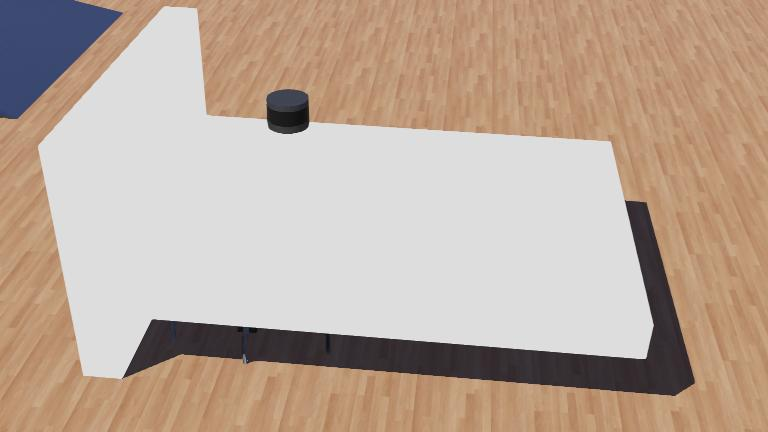
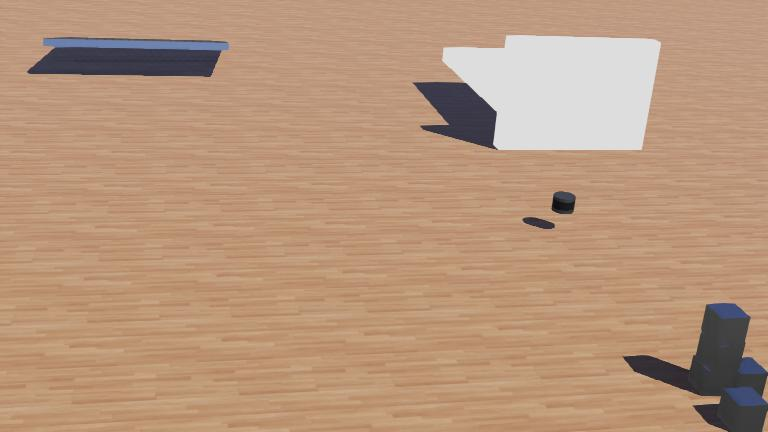
尝试获取了camera的数据，Base64编码的JPEG图像

diff --git a/controllers/pyHexapod/HexapodRobot.py b/controllers/pyHexapod/HexapodRobot.py
@@ -1,6 +1,6 @@
 import math
 import numpy as np
-from controller import Robot, Display
+from controller import Robot
 from HexLeg import LegR
 from HexLeg import LegL
 from HexIMU import IMU
@@ -34,20 +34,9 @@ class Hexapod(Robot):
         super().__init__()
 
         self.imu = IMU(self)
-        # self.camera = HexCamera(self)
+        self.camera = HexCamera(self)
         self.lidar = None
         self.timeStep = int(self.getBasicTimeStep())
-
-        # # 获取内置显示器
-        # self.display = self.getDevice("display")
-        # if self.display:
-        #     print("内置显示器已启用")
-        # else:
-        #     print("警告: 找不到内置显示设备")
-
-        # # 初始化相机相关参数
-        # self.display_counter = 0
-        # self.display_interval = 5  # 每5个时间步更新一次显示
 
         # Initialize legs with numpy arrays
         self.BRleg = LegR(
@@ -125,47 +114,30 @@ class Hexapod(Robot):
         )
         self.currentHeight = self.initHeight = leg_coords[2]
 
-    # def update_display(self):
-    #     """在Webots内置显示器上显示相机画面"""
-    #     # 如果没有显示器或没有图像数据，直接返回
-    #     if not self.display or not self.camera or not self.camera.image_data:
-    #         return
-
-    #     # 获取图像数据
-    #     image_data = self.camera.image_data
-    #     width = self.camera.width
-    #     height = self.camera.height
-
-    # 创建Webots图像对象
-    # image_ref = self.display.imageNew(
-    #     data=image_data,
-    #     width=width,
-    #     height=height,
-    #     width = width * 4,//这里老是击败报错补吱道什么原因，说参数数量不对
-    #     format=self.display.BGRA
-    # )
-
-    # # 显示图像
-    # self.display.imagePaste(image_ref, 0, 0, False)
-
-    # # 删除图像引用以释放内存
-    # self.display.imageDelete(image_ref)
-
-    # def step(self, timestep):
-    #     """重载step方法以包含相机更新"""
-    #     result = super().step(timestep)
-
-    #     # 更新相机显示
-    #     if self.camera:
-    #         self.camera.update()
-
-    #         # 更新计数器
-    #         self.display_counter += 1
-    #         if self.display_counter >= self.display_interval:
-    #             self.update_display()
-    #             self.display_counter = 0
-
-    #     return result
+    def get_camera_data(self):
+        """
+        获取相机数据并转换为适合传输的格式
+        返回字典包含：
+            - image_base64: Base64编码的JPEG图像
+            - width: 图像宽度
+            - height: 图像高度
+            - timestamp: 时间戳
+        """
+        if not hasattr(self, 'camera') or not self.camera:
+            return None
+            
+        # 更新相机数据
+        self.camera.update()
+        
+        # 获取Base64编码的JPEG
+        base64_image = self.camera.get_base64_jpeg(quality=85)
+        
+        return {
+            "image_base64": base64_image if base64_image else "",
+            "width": self.camera.width,
+            "height": self.camera.height,
+            "timestamp": self.getTime()
+        }
 
     def init_lidar(self, device_name="Velodyne VLP-16"):
         """激光雷达初始化"""

diff --git a/controllers/pyHexapod/pyHexapod.py b/controllers/pyHexapod/pyHexapod.py
@@ -35,6 +35,8 @@ class HexapodController:
         self.start_websocket_server()
 
         self.robot.init_lidar()
+        self.camera_send_counter = 0
+        self.camera_send_interval = 10  # 每10个时间步发送一次相机数据
 
     def process_lidar_data(self, points):
         """点云数据处理示例"""
@@ -44,6 +46,7 @@ class HexapodController:
                 front_points = points_arr[
                     (points_arr[:, 1] > 0) & (np.abs(points_arr[:, 0]) < 0.2)
                 ]
+            
                 if front_points.size > 0:
                     closest = front_points[front_points[:, 2].argmin()]
                     print(
@@ -70,9 +73,15 @@ class HexapodController:
                         await websocket.send(
                             json.dumps({"sensorData": sensor_data, "status": "ok"})
                         )
+                    elif command["type"] == "request_camera":
+                    # 立即发送相机数据
+                        camera_data = self.controller.robot.get_camera_data()
+                        await websocket.send(json.dumps({
+                        "type": "camera",
+                        "data": camera_data
+                    }))
                 except json.JSONDecodeError:
                     print("Invalid JSON received")
-
         except websockets.exceptions.ConnectionClosed:
             print("客户端断开连接")
 
@@ -141,7 +150,23 @@ class HexapodController:
 
             # 执行步态
             self.robot.moveTripod()
-
+            
+            # 更新相机数据发送计数器
+            self.camera_send_counter += 1
+            if self.camera_send_counter >= self.camera_send_interval:
+                self.camera_send_counter = 0
+                
+                # 获取相机数据
+                camera_data = self.robot.get_camera_data()
+                
+                # 通过WebSocket发送数据
+                if self.websocket_server:
+                    message = json.dumps({
+                        "type": "camera",
+                        "data": camera_data
+                    })
+                    # 使用异步方式发送
+                    asyncio.run(self.websocket_server.broadcast(message))
             # 收集并处理雷达数据
             # sensor_data = self.robot.collect_sensor_data()
             # if 'lidar' in sensor_data:

diff --git a/controllers/pyHexapod/HexCamera.py b/controllers/pyHexapod/HexCamera.py
@@ -1,4 +1,8 @@
 from controller import Robot, Camera
+import numpy as np
+from PIL import Image
+import base64
+import io
 
 class HexCamera:
     def __init__(self, robot, device_name="camera"):
@@ -20,18 +24,51 @@ class HexCamera:
         # 图像参数
         self.width = self.camera.getWidth()
         self.height = self.camera.getHeight()
+        self.bpp = 4  # Webots相机返回BGRA格式 (4字节/像素)
         print(f"相机已启用: {self.width}x{self.height}像素")
         
         # 图像数据
         self.image_data = None
+        self.raw_bytes = None
     
     def update(self):
         """更新相机图像数据"""
-        self.image_data = self.camera.getImage()
+        self.raw_bytes = self.camera.getImage()
+        if self.raw_bytes:
+            # 使用NumPy高效存储图像数据
+            self.image_data = np.frombuffer(self.raw_bytes, dtype=np.uint8)
     
-    def get_image(self):
-        """获取当前图像数据"""
-        return self.image_data
+    def get_jpeg_bytes(self, quality=85):
+        """
+        将当前图像转换为JPEG字节流
+        :param quality: JPEG质量 (1-100)
+        :return: JPEG字节流或None
+        """
+        if not self.raw_bytes:
+            return None
+            
+        # 创建PIL图像 (BGRA格式)
+        bgra_image = Image.frombytes("RGBA", (self.width, self.height), self.raw_bytes)
+        
+        # 转换为RGB
+        rgb_image = bgra_image.convert("RGB")
+        
+        # 保存为JPEG字节流
+        buffer = io.BytesIO()
+        rgb_image.save(buffer, format="JPEG", quality=quality)
+        return buffer.getvalue()
+    
+    def get_base64_jpeg(self, quality=85):
+        """
+        获取Base64编码的JPEG图像
+        :param quality: JPEG质量 (1-100)
+        :return: Base64字符串或None
+        """
+        jpeg_bytes = self.get_jpeg_bytes(quality)
+        if not jpeg_bytes:
+            return None
+            
+        return base64.b64encode(jpeg_bytes).decode('ascii')
     
     def get_dimensions(self):
         """获取图像尺寸"""
